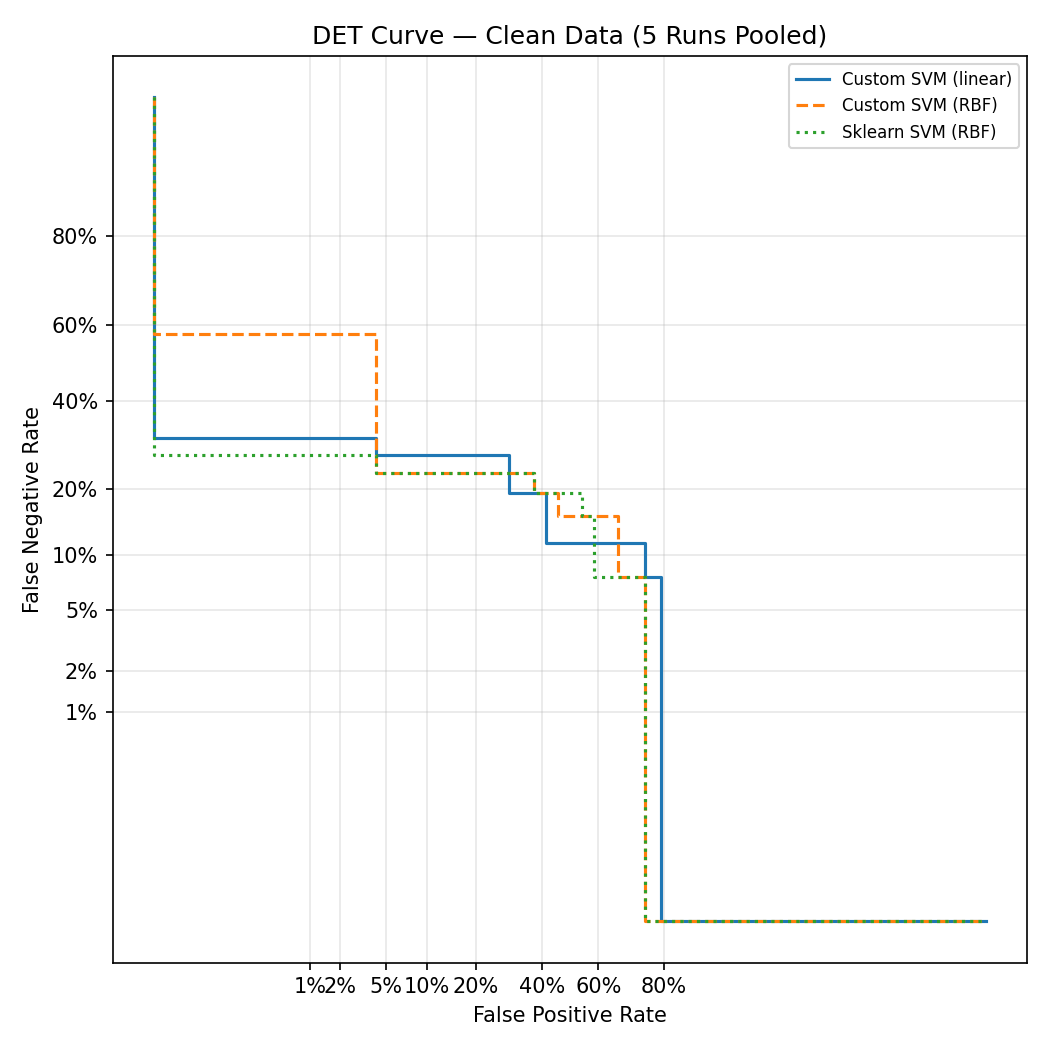
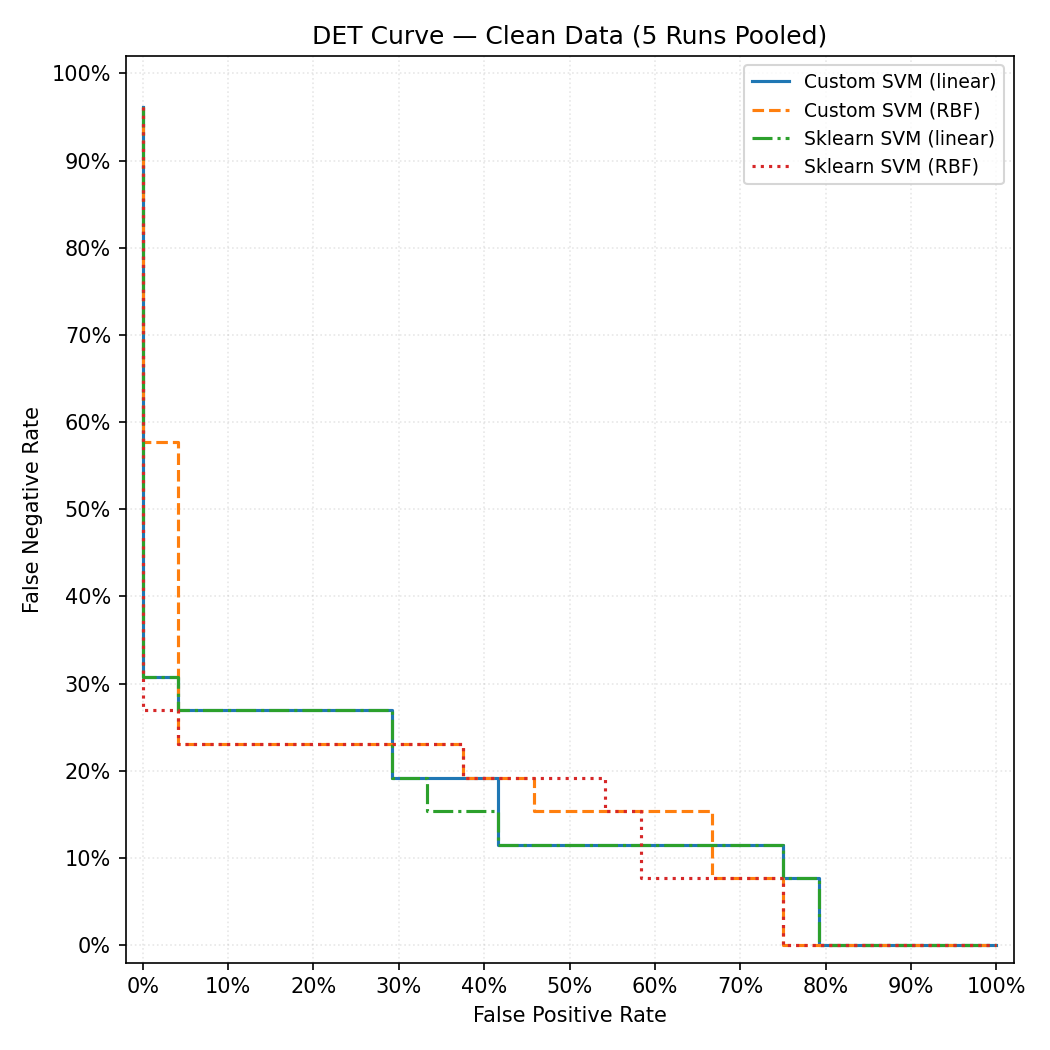
add more comparison

diff --git a/run_experiment.py b/run_experiment.py
@@ -194,27 +194,38 @@ def det_curve(y_true, scores):
     return np.array(fprs), np.array(fnrs)
 
 
-def plot_det(fpr, fnr, label, ax, linestyle="-"):
-    """Plot a single DET curve on probit-scaled axes."""
+def plot_det(fpr, fnr, label, ax, linestyle="-", use_probit=False):
+    """Plot a single DET curve."""
     eps = 1e-4
     fpr_c = np.clip(fpr, eps, 1 - eps)
     fnr_c = np.clip(fnr, eps, 1 - eps)
-    ax.plot(norm.ppf(fpr_c), norm.ppf(fnr_c), label=label, linestyle=linestyle)
+    if use_probit:
+        ax.plot(norm.ppf(fpr_c), norm.ppf(fnr_c), label=label, linestyle=linestyle)
+    else:
+        ax.plot(fpr_c, fnr_c, label=label, linestyle=linestyle)
 
 
-def setup_det_axes(ax, title="DET Curve"):
-    ticks = [0.01, 0.02, 0.05, 0.10, 0.20, 0.40, 0.60, 0.80]
-    tick_locs = [norm.ppf(t) for t in ticks]
+def setup_det_axes(ax, title="DET Curve", use_probit=False):
+    """Configure DET axes. use_probit=True: standard probit scale (uneven ticks).
+       use_probit=False: linear scale with evenly spaced tick labels."""
+    if use_probit:
+        ticks = [0.01, 0.02, 0.05, 0.10, 0.20, 0.40, 0.60, 0.80]
+        tick_locs = [norm.ppf(t) for t in ticks]
+    else:
+        ticks = np.linspace(0, 1, 11)  # 0%, 10%, 20%, ..., 100%
+        tick_locs = ticks
     tick_labels = [f"{t*100:.0f}%" for t in ticks]
     ax.set_xticks(tick_locs)
     ax.set_xticklabels(tick_labels)
     ax.set_yticks(tick_locs)
     ax.set_yticklabels(tick_labels)
-    ax.set_xlabel("False Positive Rate")
-    ax.set_ylabel("False Negative Rate")
-    ax.set_title(title)
-    ax.legend(fontsize=8)
-    ax.grid(True, alpha=0.3)
+    ax.set_xlabel("False Positive Rate", fontsize=10)
+    ax.set_ylabel("False Negative Rate", fontsize=10)
+    ax.set_title(title, fontsize=12)
+    ax.legend(fontsize=9)
+    ax.grid(True, alpha=0.3, linestyle=":")
+    ax.set_xlim(-0.02, 1.02)
+    ax.set_ylim(-0.02, 1.02)
 
 
 # ────────────────────────────────────────────────────────────────────────────
@@ -258,7 +269,11 @@ def run_single(X, y, seed):
     scores_rbf = svm_rbf.decision_function(X_te_s)
     results["Custom SVM (RBF)"] = (compute_metrics(y_te, pred_rbf), scores_rbf, y_te)
 
-    # (c) Sklearn SVM (API) — RBF kernel
+    # (c) Sklearn SVM (API) — linear kernel
+    pred_sk_lin, scores_sk_lin = run_sklearn_svm(X_tr_s, y_tr, X_te_s, y_te, kernel="linear")
+    results["Sklearn SVM (linear)"] = (compute_metrics(y_te, pred_sk_lin), scores_sk_lin, y_te)
+
+    # (d) Sklearn SVM (API) — RBF kernel
     pred_sk, scores_sk = run_sklearn_svm(X_tr_s, y_tr, X_te_s, y_te, kernel="rbf")
     results["Sklearn SVM (RBF)"] = (compute_metrics(y_te, pred_sk), scores_sk, y_te)
 
@@ -300,7 +315,7 @@ def main():
 
     # ── Download & build dataset ──
     print("\n[1] Downloading dataset from PhysioNet ...")
-    download_dataset()
+    # download_dataset()
 
     print("[2] Building feature matrix ...")
     X, y = build_dataset()
@@ -321,13 +336,17 @@ def main():
         print(f"  Running iteration {i+1}/5 (seed={s}) ...")
         clean_results.append(run_single(X, y, seed=s))
 
-    for model in ["Custom SVM (linear)", "Custom SVM (RBF)", "Sklearn SVM (RBF)"]:
+    ALL_MODELS = ["Custom SVM (linear)", "Custom SVM (RBF)",
+                   "Sklearn SVM (linear)", "Sklearn SVM (RBF)"]
+
+    for model in ALL_MODELS:
         print_table(clean_results, model, model)
 
     # DET curve for clean data (using all 5 runs pooled)
     fig, ax = plt.subplots(figsize=(7, 7))
     for model, ls in [("Custom SVM (linear)", "-"),
                       ("Custom SVM (RBF)", "--"),
+                      ("Sklearn SVM (linear)", "-."),
                       ("Sklearn SVM (RBF)", ":")]:
         all_scores = np.concatenate([r[model][1] for r in clean_results])
         all_y = np.concatenate([r[model][2] for r in clean_results])
@@ -353,15 +372,13 @@ def main():
         y_poisoned = poison_labels(y, ratio=0.10, seed=s)
         poisoned_results.append(run_single(X, y_poisoned, seed=s))
 
-    for model in ["Custom SVM (linear)", "Custom SVM (RBF)", "Sklearn SVM (RBF)"]:
+    for model in ALL_MODELS:
         print_table(poisoned_results, model, f"{model} [POISONED 10%]")
 
     # Comparative DET curves: clean vs poisoned
-    fig, axes = plt.subplots(1, 3, figsize=(18, 6))
-    for idx, (model, ls) in enumerate([("Custom SVM (linear)", "-"),
-                                        ("Custom SVM (RBF)", "--"),
-                                        ("Sklearn SVM (RBF)", ":")]):
-        ax = axes[idx]
+    fig, axes = plt.subplots(2, 2, figsize=(12, 12))
+    for idx, model in enumerate(ALL_MODELS):
+        ax = axes[idx // 2][idx % 2]
 
         # Clean
         sc_clean = np.concatenate([r[model][1] for r in clean_results])
@@ -392,7 +409,7 @@ def main():
     print("=" * 70)
     print(f"  {'Model':<25s} {'Clean':>10s} {'Poisoned':>10s} {'Δ':>10s}")
     print(f"  {'─'*58}")
-    for model in ["Custom SVM (linear)", "Custom SVM (RBF)", "Sklearn SVM (RBF)"]:
+    for model in ALL_MODELS:
         f1_clean = np.mean([r[model][0][3] for r in clean_results])
         f1_poison = np.mean([r[model][0][3] for r in poisoned_results])
         print(f"  {model:<25s} {f1_clean:>10.4f} {f1_poison:>10.4f} {f1_poison-f1_clean:>+10.4f}")
